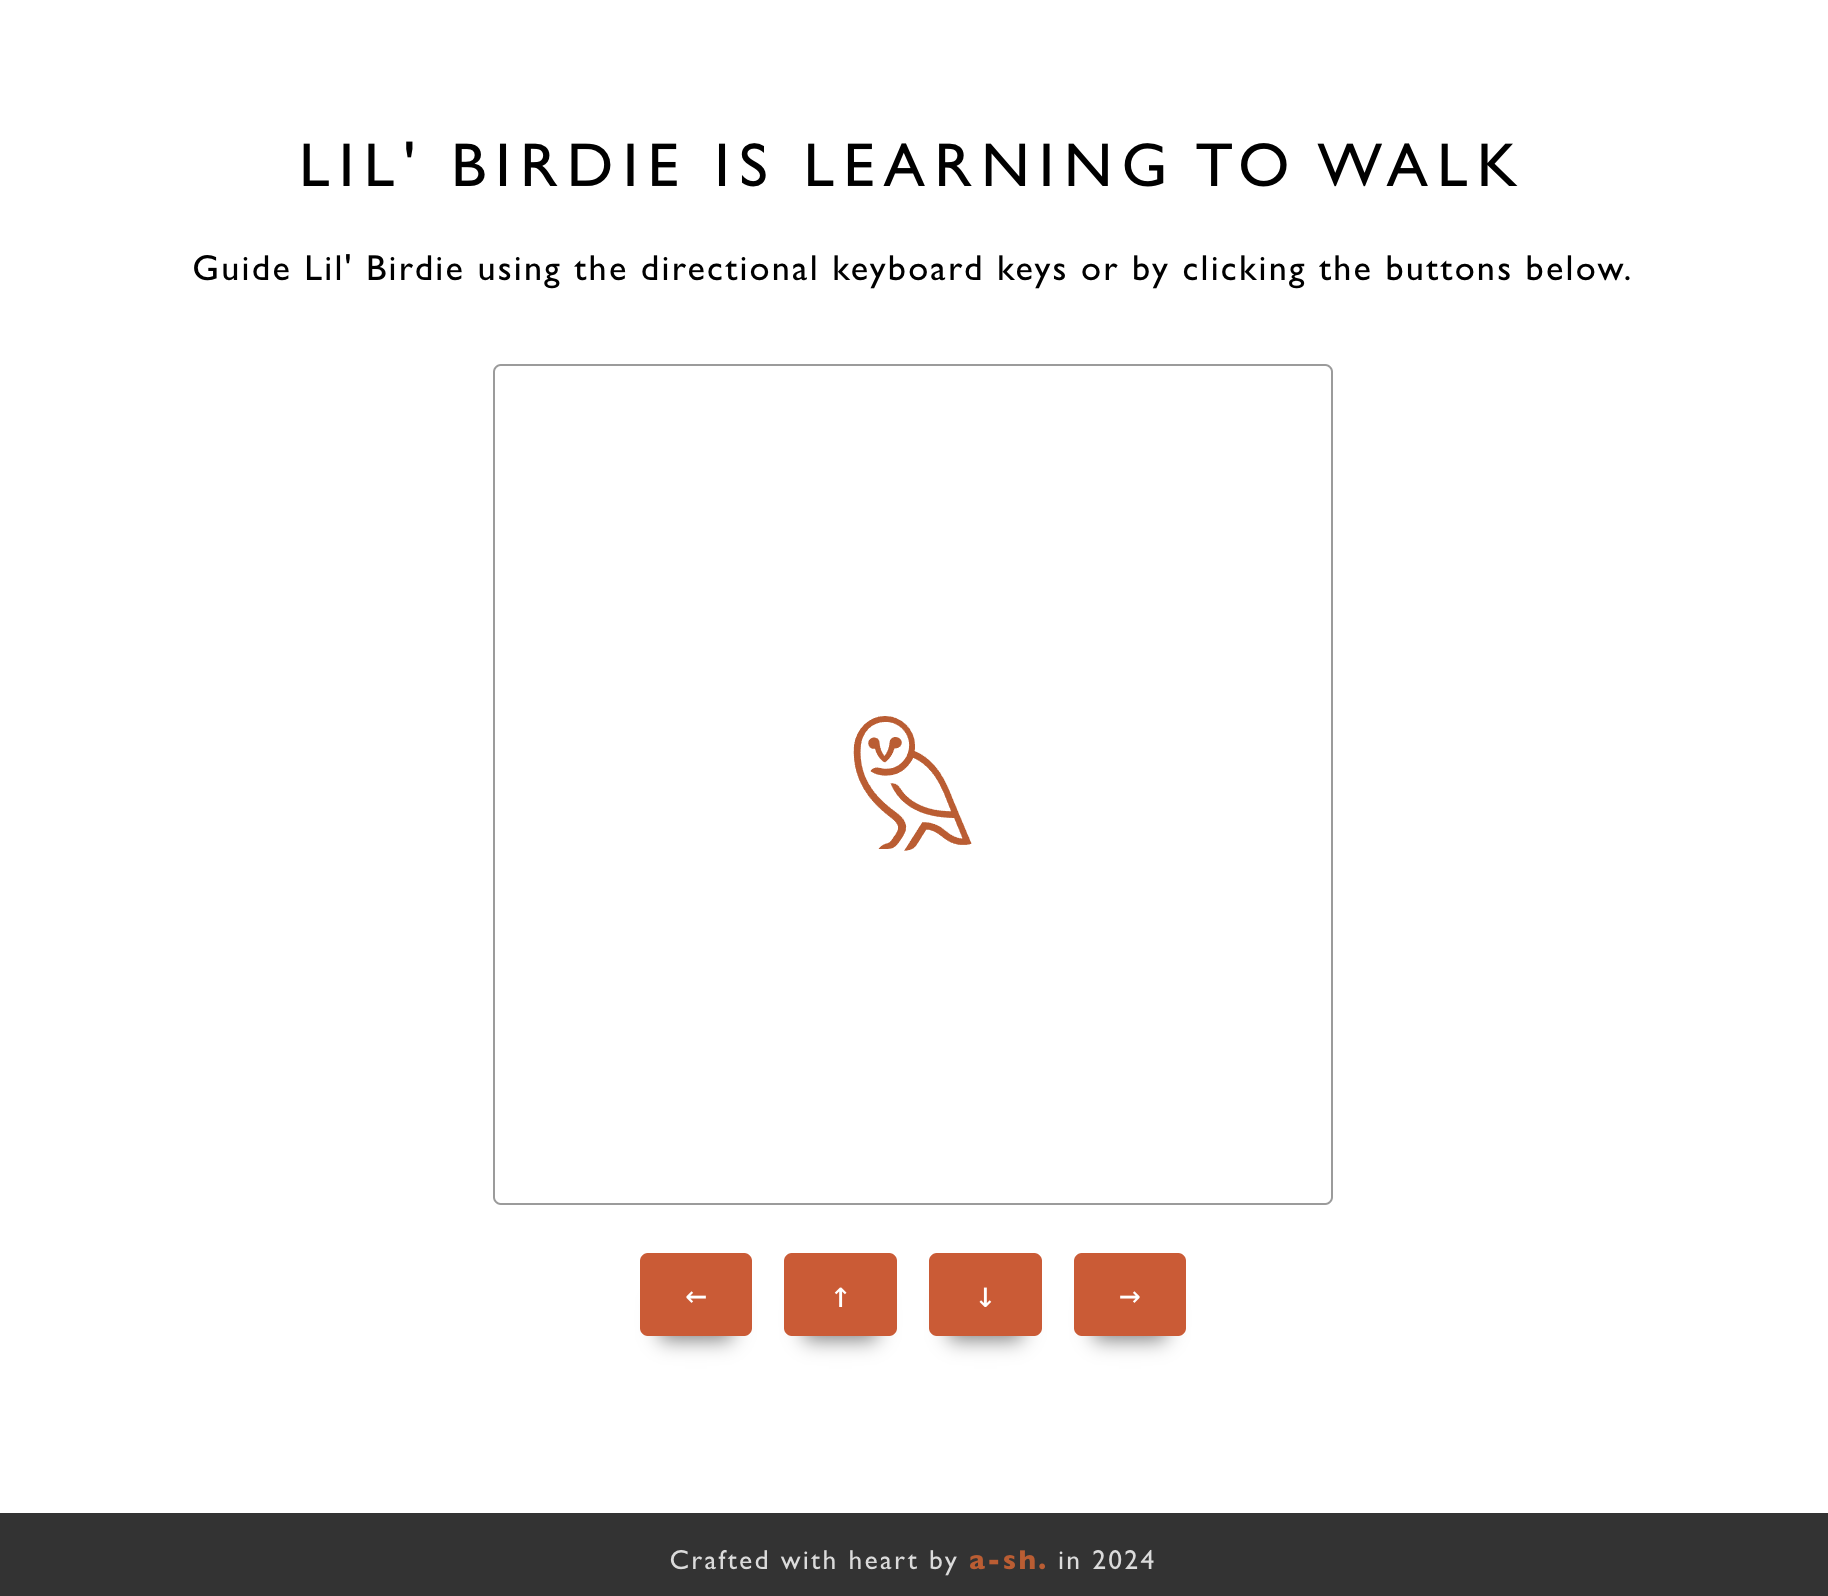
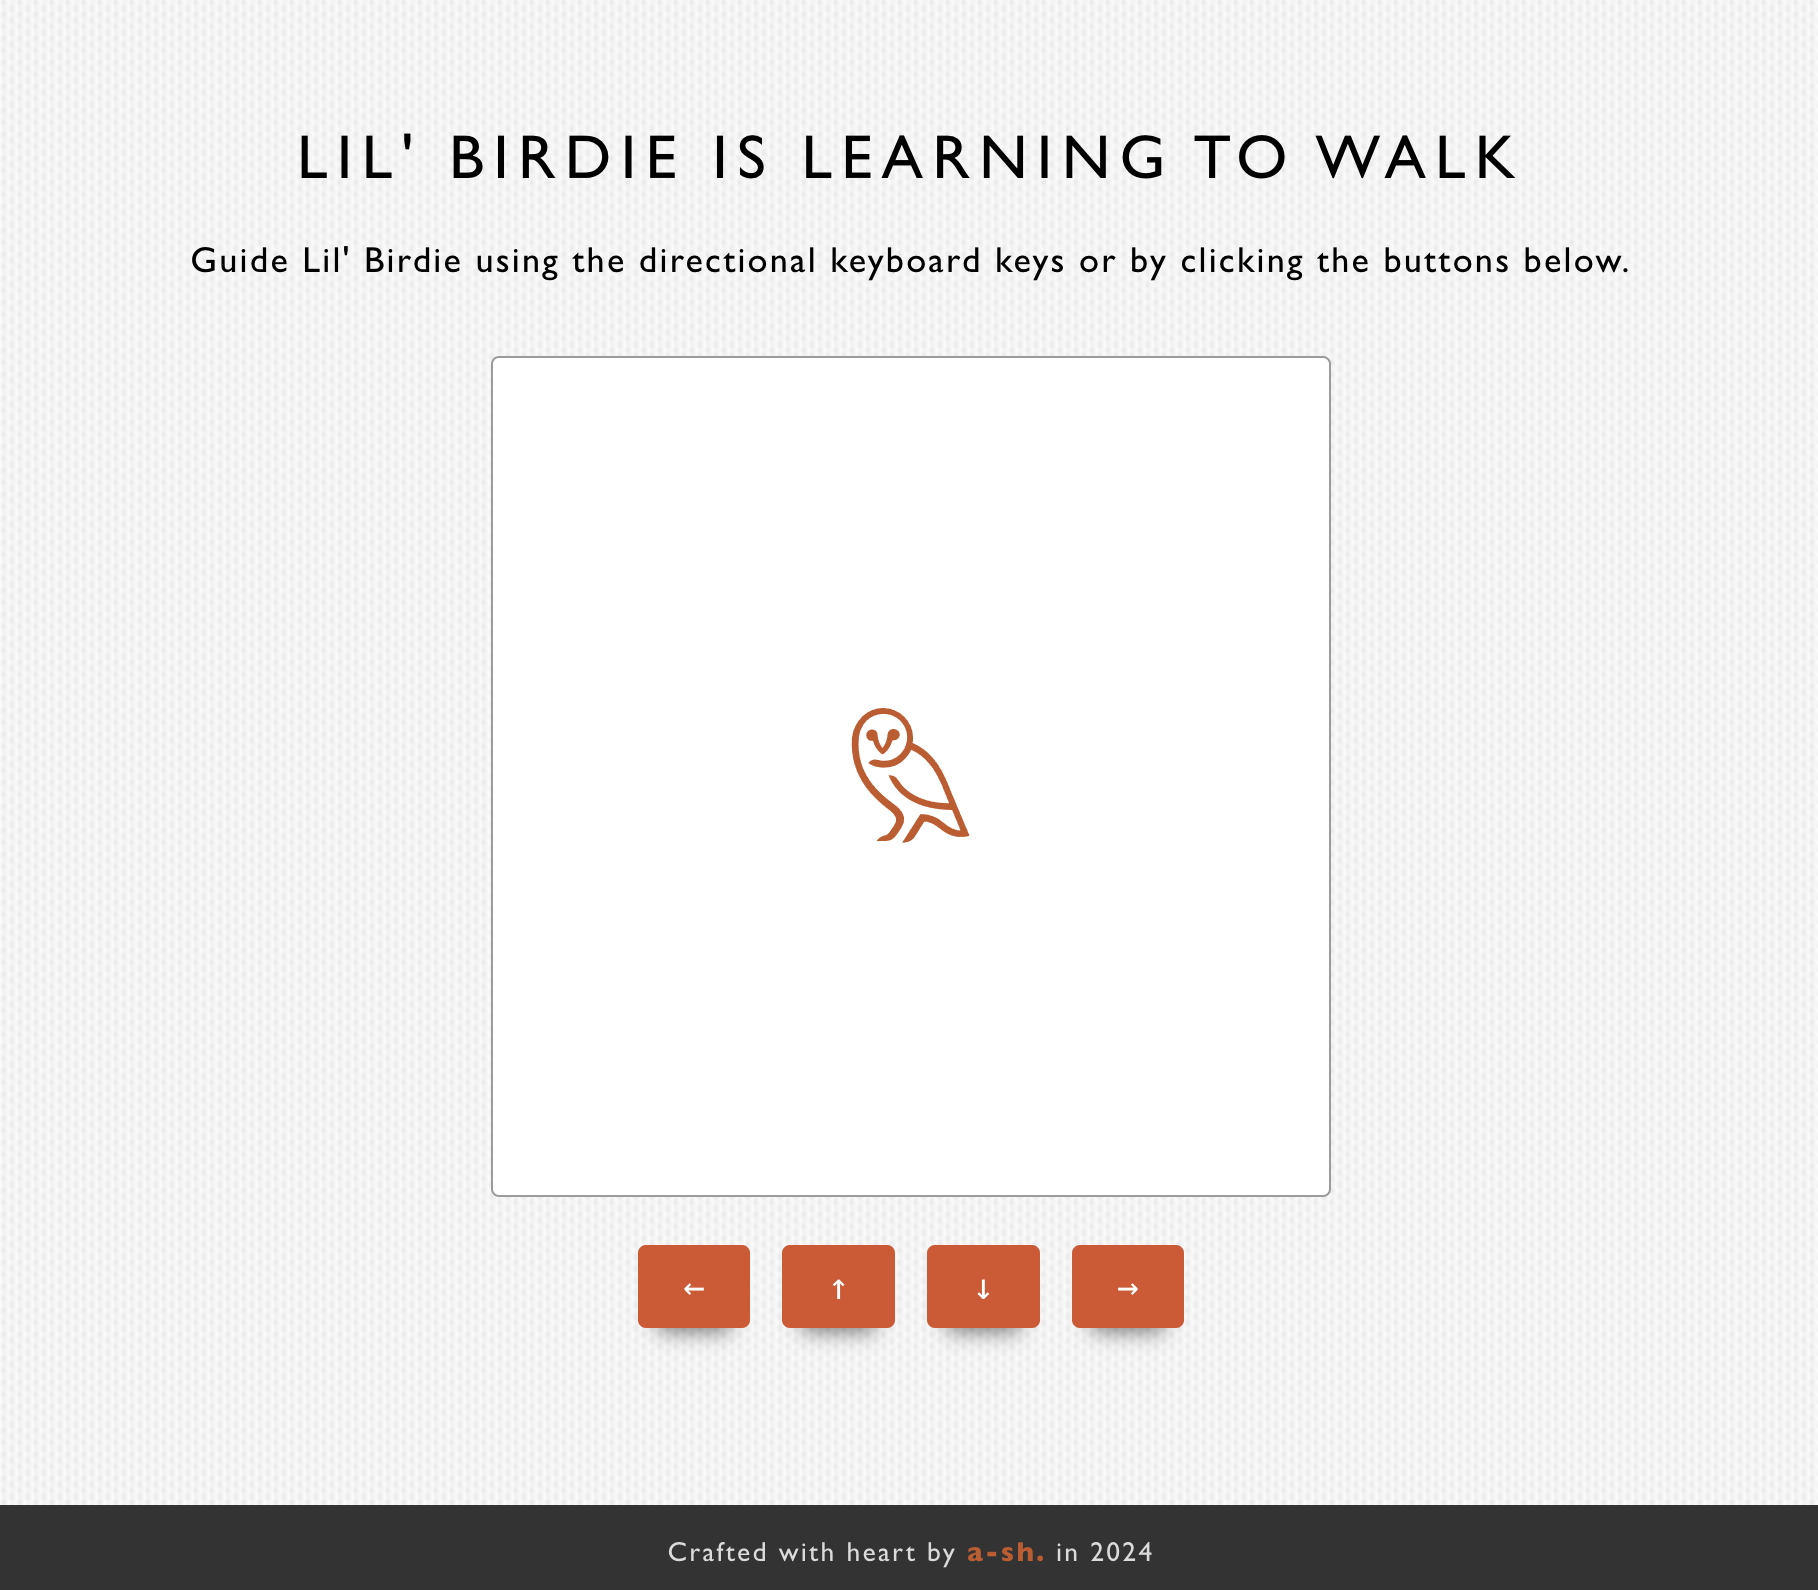
Update preview screenshot and minor fix to footer

diff --git a/src/components/Footer.tsx b/src/components/Footer.tsx
@@ -3,7 +3,7 @@ import { StyledFooter } from '../styles/styled'
 export const Footer = () => {
   return (
     <StyledFooter>
-      Crafted with heart by{' '}
+      Crafted with care by{' '}
       <a
         href="https://github.com/a-sh-dev/react_lil-bird_controller"
         target="_blank"
